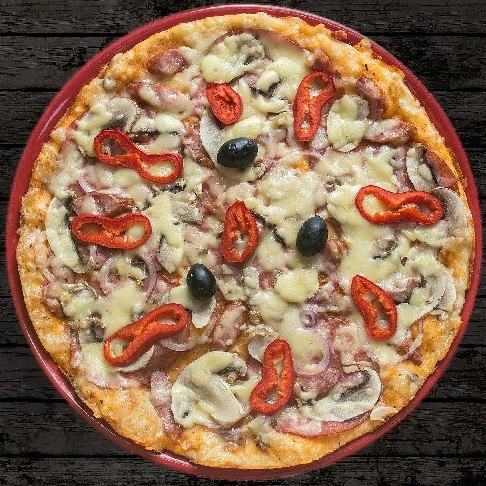
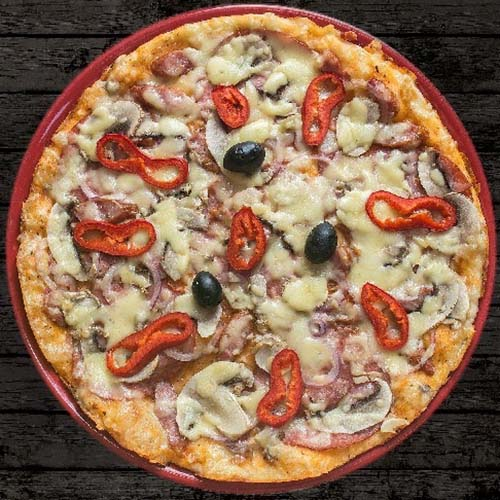
added img variants, picture tags, changed menu content

diff --git a/src/components/routes/home_page/HomePage.js b/src/components/routes/home_page/HomePage.js
@@ -1,8 +1,12 @@
-import { Box, Typography, Divider, Grid } from '@mui/material/'
-import PageButton from '../../PageButton'
-import homeImage from '../../../assets/homePizza.jpg'
+import { Box, Typography, Divider, Grid, Button } from '@mui/material/'
+import homeImage from '../../../assets/homePage1-full.jpg'
+import homeImage1920 from '../../../assets/homePage1-1920.jpg'
+import homeImage1366 from '../../../assets/homePage1-1366.jpg'
+import homeImage900 from '../../../assets/homePage1-900.jpg'
 import pizzaItem from '../../../assets/pizzaItem.jpg'
-import homeImage2 from '../../../assets/homePizza-2.jpg'
+import lastSection600 from '../../../assets/homePage2.jpg'
+import lastSection1366 from '../../../assets/homePage2-1366.jpg'
+import lastSection1920 from '../../../assets/homePage2-1920.jpg'
 import appstoreImg from '../../../assets/appstore.png'
 import NavButton from '../../navbar/NavButton.js'
 import { useOutletContext } from 'react-router-dom'
@@ -16,7 +20,13 @@ const Main = () => {
     return (
         <Grid container spacing={0}>
             <Grid component='section' item xs={12}>
-                <img src={homeImage} alt='pizza' className={classes.frontImage} />
+                <picture>
+                    <source srcSet={homeImage} media="(min-width: 2500px)"></source>
+                    <source srcSet={homeImage1920} media="(min-width: 1920px)"></source>
+                    <source srcSet={homeImage1366} media="(min-width: 1366px)"></source>
+                    <source srcSet={homeImage900} media="(min-width: 900px)"></source>
+                    <img src={homeImage900} alt='pizza' className={classes.frontImage} />
+                </picture>
             </Grid>
             <Grid className={classes.fullWidthSection} component='section' item xs={12}>
                 <Typography variant='h1' fontWeight={100} fontFamily='Mea Culpa'>Luigi's Pizza</Typography>
@@ -37,7 +47,7 @@ const Main = () => {
                 <Typography variant='h3'>About us</Typography>
                 <Typography variant='subtitle1' sx={{ maxWidth: '60em' }}>Pizza ipsum dolor amet mozzarella thin crust garlic NY style ham hawaiian. Fresh tomatoes chicken party sauteed onions hawaiian, peppers pan pepperoni. Chicken wing green bell peppers thin crust, string cheese buffalo sauce red onions meatball hawaiian broccoli parmesan party pesto pan.</Typography>
                 <Box>
-                    <PageButton onClick={handleContactButtonCLick}>Contact</PageButton>
+                    <Button variant='pageButton' onClick={handleContactButtonCLick}>Contact</Button>
                     <NavButton pageButton path='/Menu'>Menu</NavButton>
                 </Box>
             </Grid>
@@ -49,7 +59,12 @@ const Main = () => {
                 <img src={appstoreImg} className={classes.appStoresImg} alt='Appstores icons' onClick={() => { setOpenAlert(true) }} />
             </Grid>
             <Grid item xs={12} md={6}>
-                <img className={classes.sideSectionImage} src={homeImage2} alt='Pizza' />
+                <picture>
+                    <source srcSet={lastSection1920} media="(min-width: 1920px)"></source>
+                    <source srcSet={lastSection1366} media="(min-width: 1366px)"></source>
+                    <source srcSet={lastSection600} media="(min-width: 900px)"></source>
+                    <img className={classes.sideSectionImage} src={lastSection600} alt='Pizza' />
+                </picture>
             </Grid>
         </Grid >
     );

diff --git a/src/menu_data.js b/src/menu_data.js
@@ -15,11 +15,10 @@ const menuData = {
             variant2: { size: '45cm', price: 33.50 },
         },
         {
-            id: 3, title: 'Bolognese', description: 'cheese, tomato, pizza sauce, ham, mushrooms, oregano', imageSrc: pizzaItemImg, imageAlt: 'Bolognese',
+            id: 3, title: 'Capricciosa', description: 'cheese, tomato, pizza sauce, ham, mushrooms, oregano', imageSrc: pizzaItemImg, imageAlt: 'Capricciosa',
             variant1: { size: '32cm', price: 27.50 },
             variant2: { size: '45cm', price: 34.50 },
         },
-
         {
             id: 4, title: 'Frutti di mare', description: 'cheese, tomato, pizza sauce, ham, mushrooms, oregano', imageSrc: pizzaItemImg, imageAlt: 'Frutti di mare',
             variant1: { size: '32cm', price: 30.00 },
@@ -31,17 +30,17 @@ const menuData = {
             variant2: { size: '45cm', price: 27.50 },
         },
         {
-            id: 6, title: 'Miesna w chuj', description: 'cheese, tomato, pizza sauce, ham, mushrooms, oregano', imageSrc: pizzaItemImg, imageAlt: 'Miesna w chuj',
+            id: 6, title: 'Bolognese', description: 'cheese, tomato, pizza sauce, ham, mushrooms, oregano', imageSrc: pizzaItemImg, imageAlt: 'Bolognese',
             variant1: { size: '32cm', price: 29.50 },
             variant2: { size: '45cm', price: 29.50 },
         },
         {
-            id: 7, title: 'Wiejska', description: 'cheese, tomato, pizza sauce, ham, mushrooms, oregano', imageSrc: pizzaItemImg, imageAlt: 'Wiejska',
+            id: 7, title: 'Prosciutto ', description: 'cheese, tomato, pizza sauce, ham, mushrooms, oregano', imageSrc: pizzaItemImg, imageAlt: 'Prosciutto ',
             variant1: { size: '32cm', price: 27.50 },
             variant2: { size: '45cm', price: 27.50 },
         },
         {
-            id: 8, title: 'boczek z pizza', description: 'cheese, tomato, pizza sauce, ham, mushrooms, oregano', imageSrc: pizzaItemImg, imageAlt: 'boczek z pizza',
+            id: 8, title: 'Marinara', description: 'cheese, tomato, pizza sauce, ham, mushrooms, oregano', imageSrc: pizzaItemImg, imageAlt: 'Marinara',
             variant1: { size: '32cm', price: 25.50 },
             variant2: { size: '45cm', price: 25.50 },
         },
@@ -58,7 +57,7 @@ const menuData = {
             variant1: { size: '500ml', price: 6.20 },
         },
         {
-            id: 2, title: 'Orange juice', description: 'juice from real oragnes or something', imageSrc: colaItemImg, imageAlt: 'Coca-Cola',
+            id: 2, title: 'Cool Cola', description: 'very cool cola or something', imageSrc: colaItemImg, imageAlt: 'Coca-Cola',
             variant1: { size: '450ml', price: 7.20 },
         },
     ],

diff --git a/src/App.js b/src/App.js
@@ -10,10 +10,9 @@ import SnackbarAlert from './components/SnackbarAlert';
 import theme from './theme.js'
 
 const App = () => {
-    // ogarnij zdjecia  ta k zeby n ie adow  ac za kaz dym razem 1920px jak to nie potrzebne ;)
-    // MenuPage => counter ogarnij
 
     const [openContactCard, setOpenContactCard] = React.useState(false);
+    const [openAlert, setOpenAlert] = React.useState(false);
 
     const handleContactButtonCLick = () => {
         setTimeout(() => {
@@ -21,17 +20,14 @@ const App = () => {
         }, 0);
     };
 
-    const [openAlert, setOpenAlert] = React.useState(false);
-
-
     return (
         <ThemeProvider theme={theme}>
-            <Stack spacing={0} sx={{ minHeight: '100vh', justifyContent: 'space-between' }}>
+            <Stack spacing={0} sx={{ minHeight: '100vh', justifyContent: 'space-between', minWidth: '300px', overflowX: 'unset' }}>
                 <ContactCard openContactCard={openContactCard} setOpenContactCard={setOpenContactCard} />
                 <SnackbarAlert openAlert={openAlert} setOpenAlert={setOpenAlert} />
 
                 <NavBar handleContactButtonCLick={handleContactButtonCLick}></NavBar>
-                <Outlet context={{ handleContactButtonCLick, openAlert, setOpenAlert }} ></Outlet>
+                <Outlet context={{ handleContactButtonCLick, openAlert, setOpenAlert }}></Outlet>
                 <Footer></Footer>
             </Stack>
         </ThemeProvider>

diff --git a/src/components/routes/register_page/RegisterPage.js b/src/components/routes/register_page/RegisterPage.js
@@ -1,5 +1,4 @@
-import { Container, Typography, Box, TextField, Grid } from '@mui/material'
-import PageButton from '../../PageButton'
+import { Container, Typography, Box, TextField, Grid, Button } from '@mui/material'
 import React from 'react'
 import { useOutletContext } from 'react-router-dom';
 import registerPageStyles from './registerPageStyles'
@@ -21,9 +20,9 @@ const Register = () => {
                         <Grid item xs={12}><TextField className={classes.textInput} variant='filled' label='Email Address' placeholder="Email Address" /></Grid>
                         <Grid item xs={12}><TextField className={classes.textInput} variant='filled' label='Password' placeholder="Password" type='password' /></Grid>
                     </Grid>
-                    <PageButton onClick={() => { setOpenAlert(true); }} sx={{ m: 0, mt: 2.5, p: 2, pl: 5, pr: 5 }}>
+                    <Button variant='pageButton' onClick={() => { setOpenAlert(true); }} sx={{ m: 0, mt: 2.5, p: 2, pl: 5, pr: 5 }}>
                         Register
-                    </PageButton>
+                    </Button>
                 </form>
             </Box>
         </Container>

diff --git a/src/components/menu_list_item/MenuListItem.js b/src/components/menu_list_item/MenuListItem.js
@@ -1,6 +1,5 @@
-import { Paper, Select, Typography, MenuItem, InputLabel, Box, FormControl, ListItem } from '@mui/material';
+import { Paper, Select, Typography, MenuItem, InputLabel, Box, FormControl, ListItem, Button } from '@mui/material';
 import * as React from 'react';
-import PageButton from '../PageButton'
 import menuListItemStyles from './menuListItemStyles'
 
 const MenuListItem = ({ item, handleMenuItemSubmit }) => {
@@ -47,9 +46,9 @@ const MenuListItem = ({ item, handleMenuItemSubmit }) => {
                             <MenuItem value={item.variant1}>{item.variant1.size} - {item.variant1.price}PLN</MenuItem>
                             {item.variant2 && <MenuItem value={item.variant2}>{item.variant2.size} - {item.variant2.price}PLN</MenuItem>}
                         </Select>
-                        <PageButton type='submit' sx={{ m: 0, p: 1 }}>
+                        <Button variant='pageButton' type='submit' sx={{ m: 0, p: 1 }}>
                             Add to Cart
-                        </PageButton>
+                        </Button>
                     </FormControl>
                 </form>
             </Paper>

diff --git a/src/theme.js b/src/theme.js
@@ -15,12 +15,31 @@ let theme = createTheme({
         },
     },
 
-    components: {
-
-    },
-
     typography: {
         fontFamily: '"Montserrat", "Mea Culpa"',
+    },
+});
+
+theme = createTheme(theme, {
+    components: {
+        MuiButton: {
+            variants: [
+                {
+                    props: { variant: 'pageButton' },
+                    style: {
+                        backgroundColor: theme.palette.primary.light,
+                        color: theme.palette.primary.dark,
+                        margin: theme.spacing(2),
+                        padding: theme.spacing(2),
+                        paddingLeft: theme.spacing(4),
+                        paddingRight: theme.spacing(4),
+                        '&:hover': {
+                            backgroundColor: theme.palette.secondary.light
+                        }
+                    }
+                },
+            ]
+        }
     },
 });
 

diff --git a/src/components/cart/Cart.js b/src/components/cart/Cart.js
@@ -1,5 +1,4 @@
-import { Stack, List, Typography, Divider, Box } from '@mui/material'
-import PageButton from '../PageButton'
+import { Stack, List, Typography, Divider, Box, Button } from '@mui/material'
 import React from 'react'
 import CartListItem from '../cart_list_item/CartListItem'
 import { useOutletContext } from 'react-router-dom'
@@ -33,7 +32,7 @@ const Cart = ({ cartItemList, removeCartItem }) => {
                 <Typography variant='h3' textAlign='right' mt={1}>
                     {totalPrice()} PLN
                 </Typography>
-                <PageButton sx={{ m: 0, mt: 1, }} fullWidth onClick={() => { setOpenAlert(true); }} >Order</PageButton>
+                <Button variant='pageButton' sx={{ m: 0, mt: 1, }} fullWidth onClick={() => { setOpenAlert(true); }} >Order</Button>
             </Box>
         </Stack >
     );

diff --git a/src/components/routes/menu_page/MenuPage.js b/src/components/routes/menu_page/MenuPage.js
@@ -3,12 +3,15 @@ import * as React from 'react';
 import Cart from '../../cart/Cart'
 import MenuTabs from '../../menu_tabs/MenuTabs'
 import menuPageStyles from './menuPageStyles'
+import useMediaQuery from '@mui/material/useMediaQuery';
+
 
 let cartCounter = 0
 
 const Menu = () => {
     const classes = menuPageStyles()
     const [cartItemList, setCartItemList] = React.useState([])
+    const smQuery = useMediaQuery('(min-width:600px)')
 
     const handleMenuItemSubmit = (item) => {
         setCartItemList([...cartItemList, { ...item, cartID: cartCounter }])
@@ -23,7 +26,7 @@ const Menu = () => {
         <Grid
             container
             component='section'
-            columnSpacing={10}
+            columnSpacing={smQuery ? 10 : 2}
             rowSpacing={4}
             className={classes.container}
         >

diff --git a/src/components/navbar/NavButton.js b/src/components/navbar/NavButton.js
@@ -1,7 +1,6 @@
 import { Typography, Button } from '@mui/material/';
 import { styled } from '@mui/material/styles';
 import { Link } from 'react-router-dom'
-import PageButton from '../PageButton';
 
 const AppBarButton = styled(Button)(({ theme }) => ({
     margin: theme.spacing(1),
@@ -20,7 +19,7 @@ const NavButton = (props) => {
     return (
         <Link to={props.path} onClick={props.onClick} style={{ textDecoration: 'none' }}>
             {props.pageButton ?
-                (<PageButton component='span'>{props.children}</PageButton>)
+                (<Button variant='pageButton' component='span'>{props.children}</Button>)
                 :
                 (<AppBarButton variant={props.buttonVariant} sx={props.buttonSx}>
                     <Typography variant='subtitle1'>{props.children}</Typography>

diff --git a/src/components/cart/cartStyles.js b/src/components/cart/cartStyles.js
@@ -2,6 +2,7 @@ import { makeStyles } from '@mui/styles';
 
 const cartStyles = makeStyles((theme) => ({
     container: {
+        boxSizing: 'border-box',
         backgroundColor: theme.palette.secondary.dark,
         borderRadius: '6px',
         minHeight: '500px', height: '75vh',
@@ -9,9 +10,8 @@ const cartStyles = makeStyles((theme) => ({
         minWidth: '18em', width: '100%', maxWidth: '20vw',
         justifyContent: 'space-between',
         [theme.breakpoints.down('md')]: {
-            minHeight: '0px',
+            maxWidth: '100%',
             height: '35vh',
-            minWidth: '100%',
         }
     },
 

diff --git a/src/components/menu_list_item/menuListItemStyles.js b/src/components/menu_list_item/menuListItemStyles.js
@@ -32,14 +32,16 @@ const menuListItemStyles = makeStyles((theme) => ({
     },
 
     productImage: {
-        minWidth: '110px',
-        width: '15%',
+        width: '110px',
         objectFit: 'contain'
     },
 
     form: {
         minWidth: '10em',
-        width: '100%'
+        width: '40%',
+        [theme.breakpoints.down('md')]: {
+            width: '100%',
+        }
     },
 
     inputLabel: {

diff --git a/src/components/navbar/NavBar.js b/src/components/navbar/NavBar.js
@@ -1,4 +1,4 @@
-import { AppBar, Toolbar, Box } from '@mui/material/';
+import { AppBar, Toolbar, Box, ClickAwayListener } from '@mui/material/';
 import Logo from '../Logo'
 import NavButton from './NavButton'
 import React from 'react';
